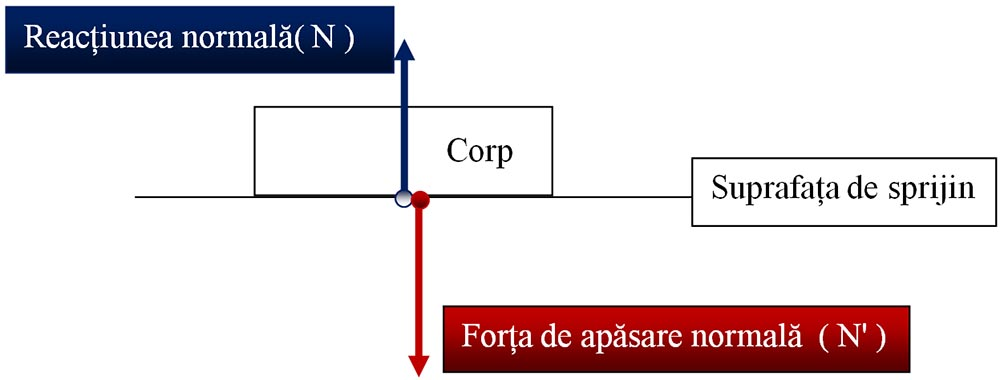
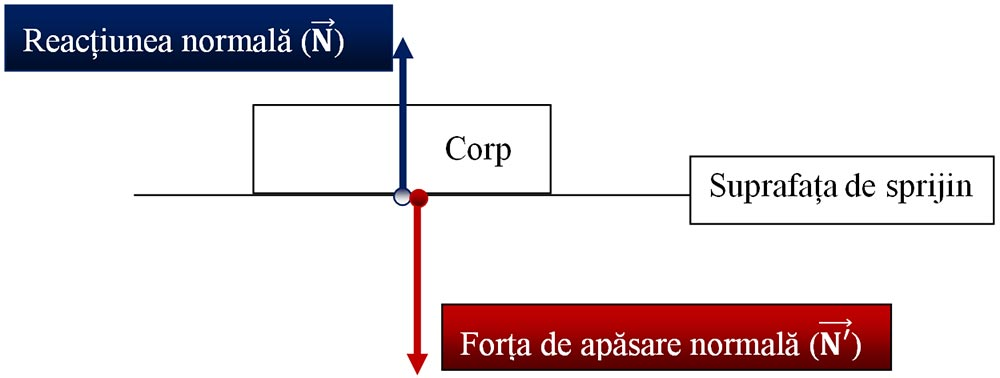
Clasa7 Cap2 Corectie Forta Frecare + Forta normala

Changed region(s): [[0.124, 0.2619, 1.0, 0.9894], [0.0, 0.0, 0.434, 0.2037]]

diff --git a/docs/fizica/clasa7/fizica-clasa7-capitolul2.md b/docs/fizica/clasa7/fizica-clasa7-capitolul2.md
@@ -1077,8 +1077,21 @@ Corpul acționează asupra mesei cu o _forță de apăsare normală_ (perpendicu
  
 **Reacțiunea normală (N)** este forța cu care suprafața acționează asupra corpului aflat pe ea (atât în repaus, cât și în mișcare). 
  
- 
+
 :::
+
+
+:::important
+
+
+<Img className="img-responsive4" src="fizica/clasa7/capitolul2/2_4_2_Poza0_EcuatiaVectorialaFortaDeApasareNormala.jpg" />
+
+:::
+
+
+
+
+
 
 <Img className="img-responsive4" src="fizica/clasa7/capitolul2/2_4_2_Poza1_FortaDeApasareNormala.jpg" />
 
@@ -1159,7 +1172,7 @@ Reacțiunea normală din partea podelei este mare.
 
 :::important Definiţie
  
-**Forța de frecare ( F<sub>f</sub> )  este forța care apare la suprafața de contact dintre două corpuri ce alunecă unul peste celălalt și se opune mișcării unui corp față de celălalt.** 
+**Forța de frecare ( F<sub>f</sub> )  este forța care apare la suprafața de contact dintre două corpuri care se mișcă unul față de altul și se opune mișcării unui corp față de celălalt.** 
  
  
 :::
@@ -1176,6 +1189,22 @@ Reacțiunea normală din partea podelei este mare.
 
 
 :::
+
+
+:::important 
+
+
+<Img className="img-responsive4" src="fizica/clasa7/capitolul2/2_4_3_Poza0_EcuatiaVectorialFortaDeFrecare.jpg" />
+
+:::
+
+
+
+
+
+
+
+
 
 
 <Img className="img-responsive4" src="fizica/clasa7/capitolul2/2_4_3_Poza1_PozaFortaFrecare.jpg" />
@@ -2657,6 +2686,12 @@ Ecuatorul față de poli, este mai departe de centrul Pământului și scade acc
 
 :::
 
+:::important
+
+<Img className="img-responsive4" src="fizica/clasa7/capitolul2/2_4_3_Poza0_EcuatiaVectorialFortaDeFrecare.jpg" />
+
+:::
+
 
 <Img className="img-responsive4" src="fizica/clasa7/capitolul2/2_4_3_Poza1_PozaFortaFrecare.jpg" />
 
@@ -2742,6 +2777,14 @@ Modulul forței de frecare la alunecare este direct proporțional cu modulul for
 **Forța de apăsare normală (N')** este forța cu care un corp acționează asupra unei suprafețe cu care este în contact.
 
 **Reacțiunea normală (N)** este forța cu care suprafața acționează asupra corpului aflat pe ea .
+
+
+
+
+
+
+
+<Img className="img-responsive4" src="fizica/clasa7/capitolul2/2_4_2_Poza0_EcuatiaVectorialaFortaDeApasareNormala.jpg" />
 
 
 <Img className="img-responsive4" src="fizica/clasa7/capitolul2/2_4_2_Poza1_FortaDeApasareNormala.jpg" />
